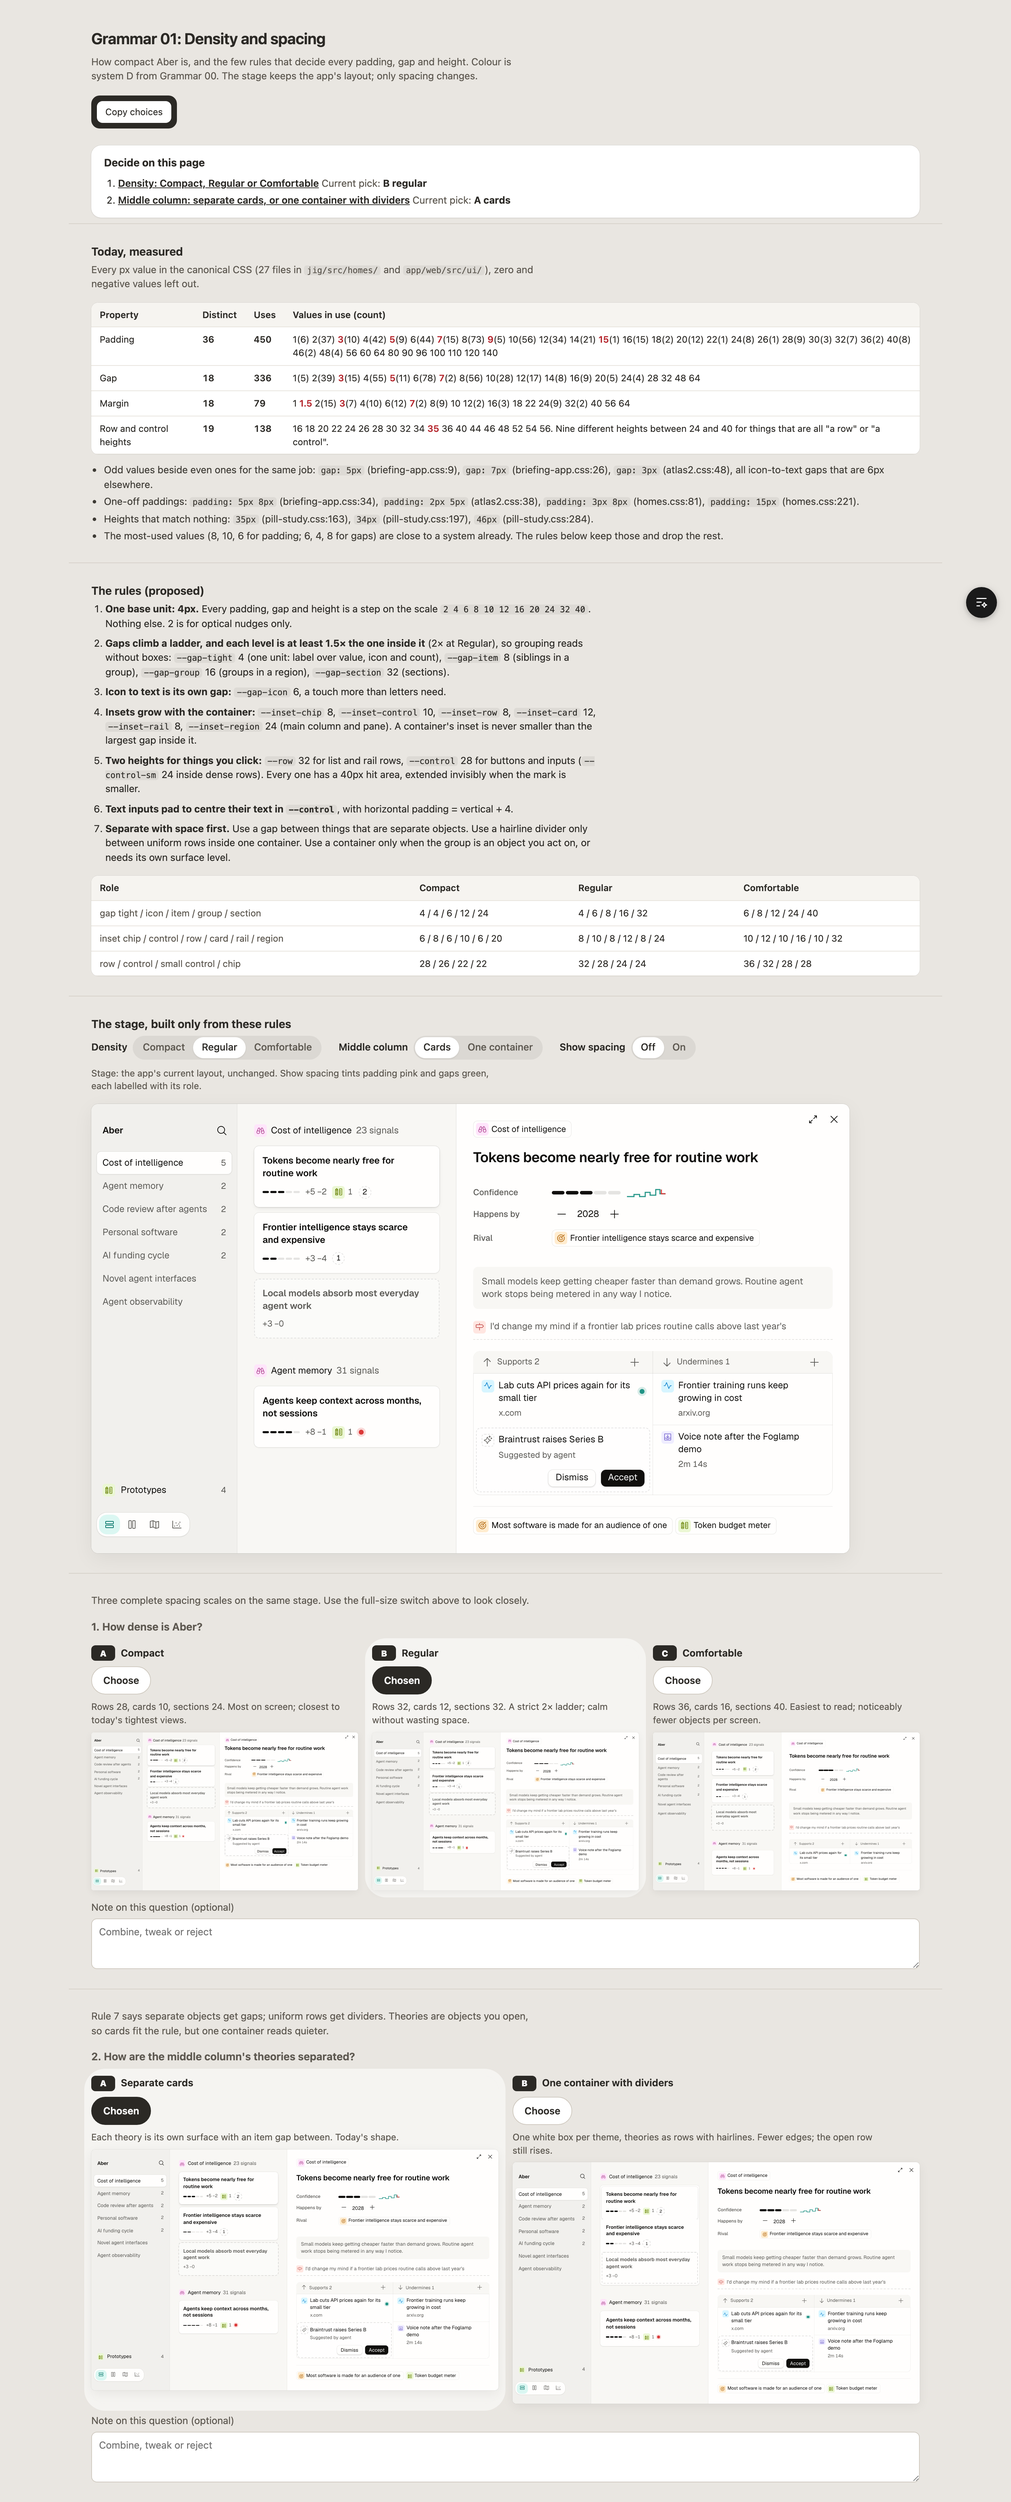
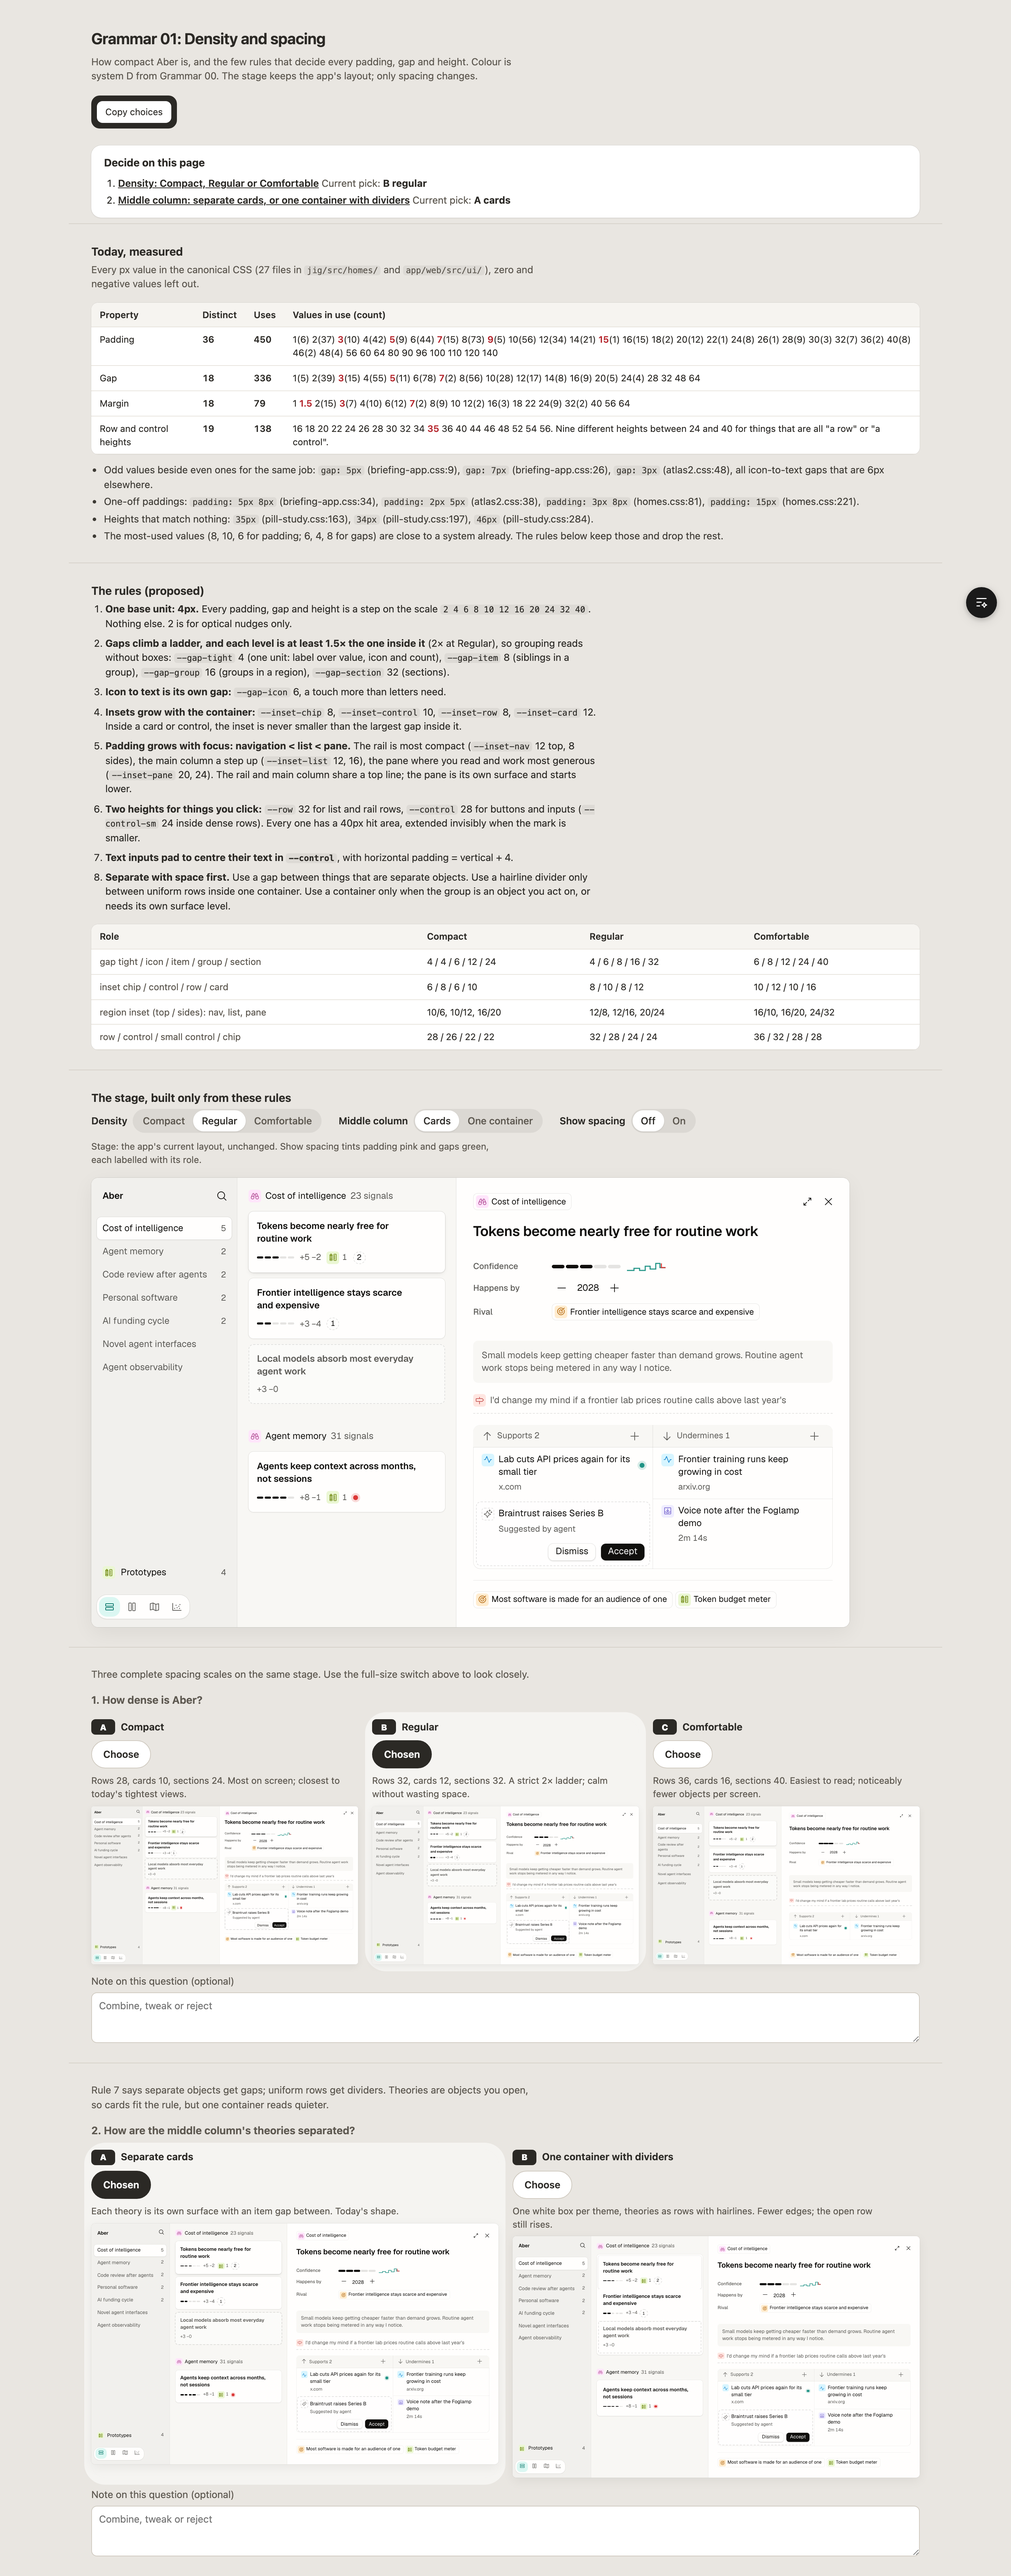
Grammar 01: padding grows with focus

diff --git a/design/grammar/_shared/stage.css b/design/grammar/_shared/stage.css
@@ -19,7 +19,7 @@
 [data-mark="bare"] .stg .g, .stg[data-mark="bare"] .g { background: transparent; outline: 0; width: auto; }
 
 /* Rail */
-.stg-rail { display: flex; flex-direction: column; gap: var(--gap-group, var(--s-3)); padding: var(--inset-region, 14px) var(--inset-rail, 10px); background: var(--ground-2); box-shadow: inset -0.5px 0 0 var(--hairline); min-width: 0; }
+.stg-rail { display: flex; flex-direction: column; gap: var(--gap-group, var(--s-3)); padding: var(--inset-nav-block, 14px) var(--inset-nav-inline, 10px); background: var(--ground-2); box-shadow: inset -0.5px 0 0 var(--hairline); min-width: 0; }
 .stg-brand { display: flex; align-items: center; justify-content: space-between; padding: 0 var(--brand-pad-r, var(--s-1h)) 0 var(--inset-row, var(--s-1h)); font-weight: var(--w-strong); }
 .stg-index { display: grid; gap: var(--gap-rail, 1px); }
 .stg-index a, .stg-protos { display: flex; align-items: center; justify-content: space-between; gap: var(--gap-item, var(--s-2)); height: var(--row); padding: 0 var(--inset-row, var(--s-2)); border-radius: var(--r-icon); color: var(--ink-2); cursor: pointer; transition: background-color var(--t-hover) var(--ease-out); }
@@ -36,7 +36,7 @@
 .stg-iconbtn:active, .stg-btn:active, .stg-chip:active, .stg-card:active { scale: var(--press-scale); }
 
 /* Main: theme sections of contained cards */
-.stg-main { min-width: 0; overflow: hidden; padding: var(--inset-region, 24px) var(--inset-region, 28px); display: grid; align-content: start; gap: var(--gap-section, 22px); }
+.stg-main { min-width: 0; overflow: hidden; padding: var(--inset-list-block, 24px) var(--inset-list-inline, 28px); display: grid; align-content: start; gap: var(--gap-section, 22px); }
 .stg-sec-head { display: flex; align-items: center; gap: var(--gap-icon, var(--s-2)); height: var(--control); margin-bottom: var(--gap-item, var(--s-2)); }
 .stg-sec-head .n { color: var(--ink-2); }
 .stg-cards { display: grid; gap: var(--gap-item, 10px); }
@@ -57,8 +57,8 @@
 .stg-dot.new { background: var(--new); box-shadow: 0 0 0 3px color-mix(in oklab, var(--new) 18%, transparent); }
 
 /* Pane: docked right, top-aligned, a hairline seam, no shadow */
-.stg-pane { position: relative; min-width: 0; background: var(--surface); box-shadow: -0.5px 0 0 var(--hairline-strong); overflow: hidden; padding: var(--inset-region, 28px) var(--inset-region, 32px) var(--inset-region, 24px); display: grid; align-content: start; gap: var(--gap-group, var(--s-4)); }
-.stg-pane-close { position: absolute; top: var(--inset-rail, 10px); right: var(--inset-rail, 10px); display: flex; gap: 2px; }
+.stg-pane { position: relative; min-width: 0; background: var(--surface); box-shadow: -0.5px 0 0 var(--hairline-strong); overflow: hidden; padding: var(--inset-pane-block, 28px) var(--inset-pane-inline, 32px) var(--inset-pane-block, 24px); display: grid; align-content: start; gap: var(--gap-group, var(--s-4)); }
+.stg-pane-close { position: absolute; top: var(--inset-pane-block, 10px); right: calc(var(--inset-pane-inline, 18px) - 8px); display: flex; gap: 2px; }
 .stg-chip { display: inline-flex; align-items: center; gap: var(--gap-tight, var(--s-1)); height: var(--chip-h, 24px); max-width: 100%; padding: 0 var(--inset-chip, var(--s-2)) 0 calc(var(--inset-chip, 8px) - 4px); border: 0; border-radius: var(--r-icon); background: var(--surface);
   box-shadow: inset 0 0 0 0.5px var(--hairline-strong); font-size: var(--text-label); color: var(--ink-2); cursor: pointer; white-space: nowrap; overflow: hidden; text-overflow: ellipsis; transition: background-color var(--t-hover); }
 .stg-chip:hover { background: var(--hover); color: var(--ink); }

diff --git a/design/grammar/01-spacing/index.html b/design/grammar/01-spacing/index.html
@@ -63,7 +63,8 @@
     <li><b>Gaps climb a ladder, and each level is at least 1.5× the one inside it</b> (2× at Regular), so grouping reads without boxes:
       <code>--gap-tight</code> 4 (one unit: label over value, icon and count), <code>--gap-item</code> 8 (siblings in a group), <code>--gap-group</code> 16 (groups in a region), <code>--gap-section</code> 32 (sections).</li>
     <li><b>Icon to text is its own gap:</b> <code>--gap-icon</code> 6, a touch more than letters need.</li>
-    <li><b>Insets grow with the container:</b> <code>--inset-chip</code> 8, <code>--inset-control</code> 10, <code>--inset-row</code> 8, <code>--inset-card</code> 12, <code>--inset-rail</code> 8, <code>--inset-region</code> 24 (main column and pane). A container's inset is never smaller than the largest gap inside it.</li>
+    <li><b>Insets grow with the container:</b> <code>--inset-chip</code> 8, <code>--inset-control</code> 10, <code>--inset-row</code> 8, <code>--inset-card</code> 12. Inside a card or control, the inset is never smaller than the largest gap inside it.</li>
+    <li><b>Padding grows with focus: navigation &lt; list &lt; pane.</b> The rail is most compact (<code>--inset-nav</code> 12 top, 8 sides), the main column a step up (<code>--inset-list</code> 12, 16), the pane where you read and work most generous (<code>--inset-pane</code> 20, 24). The rail and main column share a top line; the pane is its own surface and starts lower.</li>
     <li><b>Two heights for things you click:</b> <code>--row</code> 32 for list and rail rows, <code>--control</code> 28 for buttons and inputs (<code>--control-sm</code> 24 inside dense rows). Every one has a 40px hit area, extended invisibly when the mark is smaller.</li>
     <li><b>Text inputs pad to centre their text in <code>--control</code></b>, with horizontal padding = vertical + 4.</li>
     <li><b>Separate with space first.</b> Use a gap between things that are separate objects. Use a hairline divider only between uniform rows inside one container. Use a container only when the group is an object you act on, or needs its own surface level.</li>
@@ -72,7 +73,8 @@
     <thead><tr><th>Role</th><th>Compact</th><th>Regular</th><th>Comfortable</th></tr></thead>
     <tbody>
       <tr><td>gap tight / icon / item / group / section</td><td>4 / 4 / 6 / 12 / 24</td><td>4 / 6 / 8 / 16 / 32</td><td>6 / 8 / 12 / 24 / 40</td></tr>
-      <tr><td>inset chip / control / row / card / rail / region</td><td>6 / 8 / 6 / 10 / 6 / 20</td><td>8 / 10 / 8 / 12 / 8 / 24</td><td>10 / 12 / 10 / 16 / 10 / 32</td></tr>
+      <tr><td>inset chip / control / row / card</td><td>6 / 8 / 6 / 10</td><td>8 / 10 / 8 / 12</td><td>10 / 12 / 10 / 16</td></tr>
+      <tr><td>region inset (top / sides): nav, list, pane</td><td>10/6, 10/12, 16/20</td><td>12/8, 12/16, 20/24</td><td>16/10, 16/20, 24/32</td></tr>
       <tr><td>row / control / small control / chip</td><td>28 / 26 / 22 / 22</td><td>32 / 28 / 24 / 24</td><td>36 / 32 / 28 / 28</td></tr>
     </tbody>
   </table>

diff --git a/design/grammar/_shared/spacing.css b/design/grammar/_shared/spacing.css
@@ -14,19 +14,21 @@
   --inset-control: 10px;/* button and input x padding; inputs pad y so text centres in --control */
   --inset-row: 8px;     /* list rows and rail rows */
   --inset-card: 12px;   /* cards and contained boxes */
-  --inset-rail: 8px;    /* sidebar edge */
-  --inset-region: 24px; /* main column and pane edge */
+  /* Region insets grow with focus: navigation < list < pane. The two browsing columns share a top line. */
+  --inset-nav-block: 12px;  --inset-nav-inline: 8px;    /* rail */
+  --inset-list-block: 12px; --inset-list-inline: 16px;  /* main column */
+  --inset-pane-block: 20px; --inset-pane-inline: 24px;  /* pane */
   /* Heights */
   --row: 32px; --control: 28px; --control-sm: 24px; --chip-h: 24px; --hit: 40px;
 }
 [data-density="compact"] {
   --gap-tight: 4px; --gap-icon: 4px; --gap-item: 6px; --gap-group: 12px; --gap-section: 24px;
-  --inset-chip: 6px; --inset-control: 8px; --inset-row: 6px; --inset-card: 10px; --inset-rail: 6px; --inset-region: 20px;
+  --inset-chip: 6px; --inset-control: 8px; --inset-row: 6px; --inset-card: 10px; --inset-nav-block: 10px; --inset-nav-inline: 6px; --inset-list-block: 10px; --inset-list-inline: 12px; --inset-pane-block: 16px; --inset-pane-inline: 20px;
   --row: 28px; --control: 26px; --control-sm: 22px; --chip-h: 22px;
 }
 [data-density="comfortable"] {
   --gap-tight: 6px; --gap-icon: 8px; --gap-item: 12px; --gap-group: 24px; --gap-section: 40px;
-  --inset-chip: 10px; --inset-control: 12px; --inset-row: 10px; --inset-card: 16px; --inset-rail: 10px; --inset-region: 32px;
+  --inset-chip: 10px; --inset-control: 12px; --inset-row: 10px; --inset-card: 16px; --inset-nav-block: 16px; --inset-nav-inline: 10px; --inset-list-block: 16px; --inset-list-inline: 20px; --inset-pane-block: 24px; --inset-pane-inline: 32px;
   --row: 36px; --control: 32px; --control-sm: 28px; --chip-h: 28px;
 }
 
@@ -48,3 +50,6 @@
 
 :root, [data-density] { --brand-pad-r: 0px; }
 [data-overlay] .stg [data-sp]:not([data-gap]) { color: var(--ink) !important; }
+
+/* The pane's first row is control-high, so its header centres with the close and expand controls */
+:root .stg-pane > .stg-chips { min-height: var(--control); align-items: center; }

diff --git a/design/grammar/_shared/stage.js b/design/grammar/_shared/stage.js
@@ -15,7 +15,7 @@
     </div>`;
 
   const html = () => `
-    <aside class="stg-rail" data-sp="region inset y, rail inset x, group gap" data-gap>
+    <aside class="stg-rail" data-sp="nav inset, group gap" data-gap>
       <div class="stg-brand"><span>Aber</span>${iconBtn("magnifying-glass", "Find")}</div>
       <nav class="stg-index">${THEMES.map(([n, c, a], i) => `<a href="#"${a ? " data-active" : ""}${i === 1 ? ' data-sp="row inset, row height"' : ""}><span>${n}</span><span>${c ?? ""}</span></a>`).join("")}</nav>
       <a href="#" class="stg-protos">${g("prototype")}<span>Prototypes</span><span>4</span></a>
@@ -26,7 +26,7 @@
         <button type="button" aria-pressed="false" aria-label="Timeline"><i class="ph ph-chart-scatter"></i></button>
       </div>
     </aside>
-    <main class="stg-main" data-sp="region inset, section gap" data-gap>
+    <main class="stg-main" data-sp="list inset, section gap" data-gap>
       <section>
         <div class="stg-sec-head">${g("theme")}<span>Cost of intelligence</span><span class="n">23 signals</span></div>
         <div class="stg-cards" data-sp="item gap" data-gap>
@@ -40,7 +40,7 @@
         <div class="stg-cards">${card("Agents keep context across months, not sessions", { c: 4, up: 8, down: 1, proto: 1, neg: true })}</div>
       </section>
     </main>
-    <aside class="stg-pane" aria-label="Open object" data-sp="region inset, group gap" data-gap>
+    <aside class="stg-pane" aria-label="Open object" data-sp="pane inset, group gap" data-gap>
       <div class="stg-pane-close">${iconBtn("arrows-out-simple", "Full width")}${iconBtn("x", "Close")}</div>
       <div class="stg-chips"><a href="#" class="stg-chip" data-sp="chip inset">${g("theme")}Cost of intelligence</a></div>
       <h3 class="stg-title">Tokens become nearly free for routine work</h3>

diff --git a/design/grammar/RULES.md b/design/grammar/RULES.md
@@ -76,13 +76,20 @@ Evidence: today's CSS uses 36 distinct paddings, 18 gaps, 18 margins and 19 row 
 | `--inset-control` | 10 |
 | `--inset-row` | 8 |
 | `--inset-card` | 12 |
-| `--inset-rail` | 8 |
-| `--inset-region` | 24 (main column, pane) |
 
-   A container's inset is never smaller than the largest gap inside it.
-5. **Two click heights.** `--row` is 32, for list and rail rows. `--control` is 28, for buttons and inputs; `--control-sm` is 24, inside dense rows. Every target has a 40px hit area.
-6. **Text inputs** centre their text in `--control`. Their horizontal padding is the vertical padding plus 4.
-7. **Separate with space first.**
+   Inside a card or control, the inset is never smaller than the largest gap inside it.
+5. **Padding grows with focus: navigation < list < pane.**
+
+| Region | Regular (top / sides) | Compact | Comfortable |
+| --- | --- | --- | --- |
+| `--inset-nav` (rail) | 12 / 8 | 10 / 6 | 16 / 10 |
+| `--inset-list` (main column) | 12 / 16 | 10 / 12 | 16 / 20 |
+| `--inset-pane` (pane) | 20 / 24 | 16 / 20 | 24 / 32 |
+
+   The rail and main column share a top line; the pane is its own surface and starts lower.
+6. **Two click heights.** `--row` is 32, for list and rail rows. `--control` is 28, for buttons and inputs; `--control-sm` is 24, inside dense rows. Every target has a 40px hit area.
+7. **Text inputs** centre their text in `--control`. Their horizontal padding is the vertical padding plus 4.
+8. **Separate with space first.**
    - A gap separates objects.
    - A hairline separates only uniform rows inside one container.
    - A container is for an object you act on, or a group that needs its own surface level.
